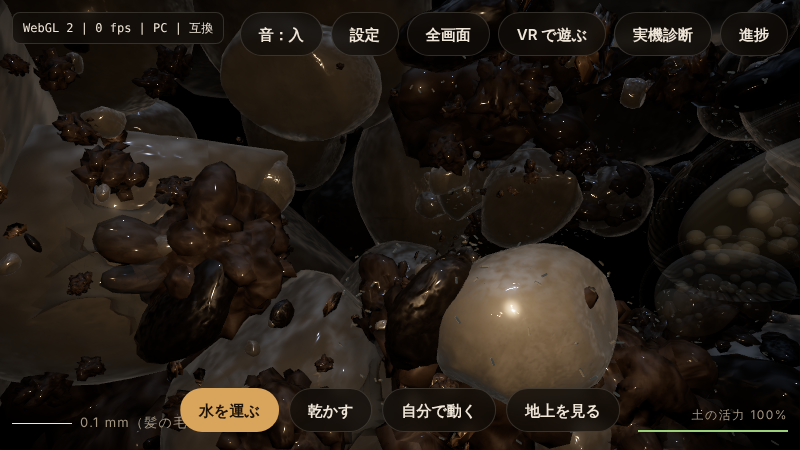
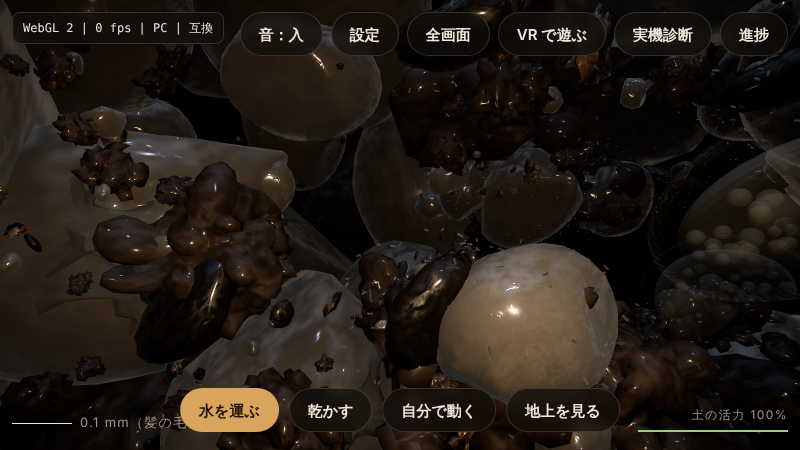
UNDERSOIL: compact intro card, furigana in card titles, mitigate start-up light artifacts (no screen refraction, clamped bloom, softer glints, delayed reveal)
Claude-Session: https://claude.ai/code/session_01HXHWaeyj425ipGMnohy3Vo

diff --git a/undersoil/src/ui/card.css b/undersoil/src/ui/card.css
@@ -1,17 +1,21 @@
-/* 紹介カード：スーツのバイザー表示。50インチのテレビから離れても、iPhone でも読める大きさ */
-.card { position: fixed; left: max(3vw, env(safe-area-inset-left)); bottom: max(13vh, 96px); width: min(34em, 92vw); z-index: 10;
-  font-size: clamp(15px, 1.55vw, 30px); color: var(--ink); background: linear-gradient(100deg, rgba(14, 11, 8, .88), rgba(14, 11, 8, .62)); border-left: 2px solid var(--accent);
-  padding: 1em 1.3em .9em; backdrop-filter: blur(10px); -webkit-backdrop-filter: blur(10px); opacity: 0; transform: translateX(-18px); transition: opacity .6s ease, transform .6s ease; pointer-events: none; }
+/* 紹介カード：スーツのバイザーに出る、小さく控えめな表示。画面の左下、操作ボタンの上 */
+.card { position: fixed; left: max(24px, env(safe-area-inset-left)); bottom: max(96px, calc(env(safe-area-inset-bottom) + 84px)); width: min(24em, calc(100vw - 48px)); z-index: 10;
+  font-size: clamp(13px, 1.05vw, 22px); color: var(--ink);
+  background: linear-gradient(180deg, rgba(20, 15, 11, .66), rgba(12, 9, 7, .5)); border: 1px solid rgba(239, 230, 216, .10); border-radius: 14px;
+  padding: .95em 1.15em .8em; backdrop-filter: blur(14px) saturate(1.1); -webkit-backdrop-filter: blur(14px) saturate(1.1);
+  box-shadow: 0 10px 40px rgba(0, 0, 0, .35); opacity: 0; transform: translateY(10px); transition: opacity .6s ease, transform .6s ease; pointer-events: none; }
 .card.show { opacity: 1; transform: none; pointer-events: auto; }
-.card-tag { font-size: .62em; letter-spacing: .3em; color: var(--accent); margin-bottom: .5em; }
-.card h2 { margin: 0; font-size: 1.55em; font-weight: 600; letter-spacing: .08em; }
-.card .sci { font-style: italic; color: var(--dim); font-size: .85em; margin-top: .15em; font-family: Georgia, "Times New Roman", serif; min-height: 1.2em; }
-.card .size { margin: .6em 0 .5em; font-size: .82em; display: flex; gap: .8em; align-items: baseline; flex-wrap: wrap; }
-.card .size b { color: var(--leaf); font-weight: 600; letter-spacing: .05em; }
+.card::before { content: ""; position: absolute; left: 1.15em; top: 0; width: 2.2em; height: 2px; background: var(--accent); border-radius: 2px; }
+.card-tag { font-size: .7em; letter-spacing: .28em; color: var(--accent); margin-bottom: .35em; }
+.card h2 { margin: 0; font-size: 1.32em; font-weight: 600; letter-spacing: .04em; line-height: 1.35; }
+.card .sci { font-style: italic; color: var(--dim); font-size: .82em; margin-top: .1em; font-family: Georgia, "Times New Roman", serif; min-height: 0; }
+.card .sci:empty { display: none; }
+.card .size { margin: .55em 0 .45em; font-size: .78em; display: flex; gap: .3em .7em; align-items: baseline; flex-wrap: wrap; }
+.card .size b { color: var(--leaf); font-weight: 600; }
 .card .size span { color: var(--dim); }
-.card p { margin: 0; line-height: 1.85; font-size: .95em; }
+.card p { margin: 0; line-height: 1.75; font-size: .88em; color: rgba(239, 230, 216, .92); }
 .card.name-only p, .card.name-only .size { display: none; }
-.card-foot { display: flex; align-items: center; gap: 1em; margin-top: .8em; }
-.card-foot .btn { font-size: .7em; padding: .6em 1.2em; min-height: 0; }
-.card-foot .life { height: 1px; background: var(--dim); display: block; flex: 0 0 auto; width: 100%; max-width: calc(100% - 7em); }
-@media (max-width: 720px) and (orientation: portrait) { .card { bottom: 150px; } }
+.card-foot { display: flex; align-items: center; gap: .8em; margin-top: .7em; }
+.card-foot .btn { font-size: .72em; padding: .45em 1.1em; min-height: 0; background: transparent; white-space: nowrap; flex: 0 0 auto; }
+.card-foot .life { height: 1px; background: rgba(239, 230, 216, .35); display: block; flex: 1 1 auto; max-width: 100%; }
+@media (max-width: 720px) { .card { bottom: 178px; font-size: 13px; } }

diff --git a/undersoil/src/ui/card.ts b/undersoil/src/ui/card.ts
@@ -24,17 +24,17 @@ function narrate(text: string) {
     synth.speak(u);
   } catch { /* 読み上げが使えない機器では字幕だけ */ }
 }
-export function showCard(s: Species, opts: { narration?: boolean; done?: () => void } = {}) {
+export function showCard(s: Species, opts: { narration?: boolean; done?: () => void; holdMs?: number } = {}) {
   const mode = introMode(); if (mode === 'off') { opts.done?.(); return; }
   const r = root(); onDone = opts.done ?? null;
   r.querySelector('.card-tag')!.textContent = s.kind === 'organism' ? 'はじめての出会い' : '土のしくみ';
-  r.querySelector('h2')!.textContent = s.nameJa;
+  r.querySelector('h2')!.textContent = s.title ?? s.nameJa;
   r.querySelector('.sci')!.textContent = s.sci ?? '';
   r.querySelector('.size b')!.textContent = s.size; r.querySelector('.size span')!.textContent = s.sizeCompare;
   r.querySelector('p')!.textContent = mode === 'name' ? '' : s.intro;
   r.classList.toggle('name-only', mode === 'name');
   // 表示は 5〜8 秒（文の長さに合わせる）
-  const ms = mode === 'name' ? 3500 : Math.max(5000, Math.min(8000, 2500 + s.intro.length * 90));
+  const ms = opts.holdMs ?? (mode === 'name' ? 3500 : Math.max(5000, Math.min(8000, 2500 + s.intro.length * 90)));
   const life = r.querySelector('.life') as HTMLElement; life.style.transition = 'none'; life.style.width = '100%';
   requestAnimationFrame(() => { r.classList.add('show'); life.style.transition = `width ${ms}ms linear`; life.style.width = '0%'; });
   if (opts.narration !== false && mode === 'all') narrate(`${s.nameJa}。${s.intro}`);

diff --git a/undersoil/src/pages/screen.ts b/undersoil/src/pages/screen.ts
@@ -11,6 +11,8 @@ import { makeDemo } from '../game/demo';
 import { makePost } from '../game/post';
 import { buildSurface, type Surface } from '../game/surface';
 import { makeEncounters } from '../game/encounters';
+import { SPECIES } from '../game/species';
+import { showCard } from '../ui/card';
 import { mountSettings, savedTier } from '../ui/settings';
 import { createAudio } from '../audio/engine';
 import { makeHud } from './hud';
@@ -80,7 +82,9 @@ async function main() {
   // シェーダーの初回コンパイルの引っかかりを避けるため、読み込み中に準備しておく
   await renderer.compileAsync(scene, camera);
   ($('loadBar') as HTMLElement).style.width = '100%';
-  const begin = () => { started = true; audio.start(); $('loading').classList.add('hide'); stopFacts(); if (wetQ === null && !testing) setTimeout(() => demo.start(), 2500); };
+  const begin = () => { started = true; audio.start(); setTimeout(() => $('loading').classList.add('hide'), 250); stopFacts(); if (wetQ === null && !testing) setTimeout(() => demo.start(), 2500); };
+  // 確認用：?card=<id> で紹介カードをすぐ出す
+  const cardQ = Q.get('card'); if (cardQ && SPECIES[cardQ]) setTimeout(() => showCard(SPECIES[cardQ], { narration: false, holdMs: 600000 }), 50);
   if (testing) begin(); else { const b = $('start') as HTMLButtonElement; b.hidden = false; b.addEventListener('click', begin, { once: true }); }
 
   // 出会いの順番（M1 の自動の流れ用。M3 で、プレイヤーの位置と行動に結び付ける）

diff --git a/undersoil/src/game/post.ts b/undersoil/src/game/post.ts
@@ -1,6 +1,6 @@
 // 後処理（画面版のみ。VR では使わない）：ブルーム、色調整、周辺減光、わずかな粒状感
 import * as THREE from 'three/webgpu';
-import { pass, screenUV, smoothstep, mix, float, vec3, time, fract, sin, dot, vec2 } from 'three/tsl';
+import { pass, screenUV, smoothstep, mix, float, vec3, vec4, time, fract, sin, dot, vec2 } from 'three/tsl';
 import { bloom } from 'three/addons/tsl/display/BloomNode.js';
 import { dof } from 'three/addons/tsl/display/DepthOfFieldNode.js';
 
@@ -14,7 +14,7 @@ export function makePost(renderer: THREE.WebGPURenderer, scene: THREE.Scene, cam
   let out = base.rgb;
   if (effects.some((e) => e.startsWith('bloom'))) {
     const lite = effects.includes('bloom-lite');
-    out = out.add(bloom(base, lite ? 0.22 : 0.3, lite ? 0.4 : 0.65, 0.9).rgb);
+    out = out.add(bloom(vec4(base.rgb.min(vec3(3.0)), float(1)) as unknown as typeof base, lite ? 0.18 : 0.24, lite ? 0.3 : 0.45, 1.15).rgb);
   }
   if (effects.includes('grade')) {
     // 暗部をわずかに寒色へ、明部を暖色へ（映画的な分離）。彩度は上げない

diff --git a/undersoil/src/game/game.ts b/undersoil/src/game/game.ts
@@ -18,7 +18,7 @@ export async function createGame(renderer: THREE.WebGPURenderer, base: string, t
   const camera = new THREE.PerspectiveCamera(58, 1, 0.08, 400);
   const world = await buildWorld(base, { grainLod: q.grainLod as 0 | 1, density: q.grainCount, cheap: tier === 'vr' });
   scene.add(world.group);
-  const bridges = buildBridges(world.colliders, world.samples, world.cellAt, { refraction: q.refraction, max: tier === 'vr' ? 60 : 220 });
+  const bridges = buildBridges(world.colliders, world.samples, world.cellAt, { refraction: 'env', max: tier === 'vr' ? 60 : 220 });
   scene.add(bridges.mesh);
   const swarm = buildSwarm(world.colliders, world.cellAt, world.distToPath, q.swarmGpu ? Math.min(q.swarm, 12000) : q.swarm);
   scene.add(swarm.mesh);

diff --git a/undersoil/src/game/soilMaterial.ts b/undersoil/src/game/soilMaterial.ts
@@ -49,7 +49,7 @@ export function makeSoilMaterial(kind: GrainKind, na: THREE.Texture, detail: THR
   m.normalNode = n;
   // 水の膜：クリアコートの二層反射。膜は滑らかなので、下地の凹凸は拾わせない
   m.clearcoatNode = wet.mul(L.coat);
-  m.clearcoatRoughnessNode = mix(float(0.22), float(0.05), wet);
+  m.clearcoatRoughnessNode = mix(float(0.25), float(0.12), wet);
   if (kind === 'quartz') {
     // 石英は半透明：縁で光が抜けて明るむ（厚みの代わりに視線と法線の角度で近似する）
     const rim = pow(oneMinus(saturate(dot(normalView, positionViewDirection))), 2.5);

diff --git a/undersoil/src/game/species.ts b/undersoil/src/game/species.ts
@@ -4,6 +4,8 @@ export interface Species {
   /** 'organism' = 生き物、'element' = 土の要素（団粒・水の膜など） */
   kind: 'organism' | 'element';
   nameJa: string;
+  /** 題名の表示用。漢字には（よみ）を付ける。なければ nameJa */
+  title?: string;
   /** 学名（生き物のみ） */
   sci?: string;
   taxon?: string;

diff --git a/undersoil/Docs/HANDOFF.md b/undersoil/Docs/HANDOFF.md
@@ -48,6 +48,10 @@
 - 「より現実世界を再現して」→ 地上の場面を写真と見比べて直した：背景のぼけ（PC・モバイル高画質のみ）、細かい土の粒、赤みのある茶色と湿りのまだら、枯れ草・小枝・落ち葉のかけら（`src/game/litter.ts`）、子葉の平たい断面・つやのない質感・縁の色、本葉の向き、茎の地上部を短く。
 - 「iPad で音が聞こえない」（2026-11-22）→ 原因の候補：①iOS の消音モードでは Web Audio が鳴らない ②風と雨を 300Hz 前後の低い音で作っていて、iPad のスピーカーで再生できない。対処：`navigator.audioSession.type = 'playback'` と無音の `<audio>` で消音モードでも鳴るようにし、音域を上げて音量を約2倍にした。開始時に和音が1つ鳴る。実機診断に「音を鳴らす」ボタンを追加。**実機で鳴るかは未確認（持ち主の返事待ち）**。
 - 自動で巡るカメラが、まだ作っていない種のまわり（粒のない空き地）を向いて真っ暗になっていた → 巡る範囲を道の 2〜68% に絞った。
+- 「音は聞こえた」（持ち主、iPad）。
+- 「案内のパネルが大きすぎる」→ 紹介カードを小さく控えめなデザインにした（`src/ui/card.css`。幅 24em、文字 1.05vw、ガラス風の半透明）。
+- 「大きい文字の漢字には、ふりがなをカッコで全部振る」→ カードの題名に（よみ）を付けた（種のデータの `title`）。**今後、大きい文字の漢字には必ず（よみ）を付ける。**
+- 「開始直後、左側で2回ほど光り、光が残るバグのようなもの」→ この環境では再現できず。実機（WebGPU）だけで起きる可能性。候補を3つ潰した：①水の橋の、画面の写しを使う屈折をやめた（全段階で環境の映り込み）②ブルームの元を明るさ 3 で頭打ちにし、にじみの境目を上げた。濡れた粒のつやの鋭さを弱めた ③開始の暗転を 0.25 秒遅らせた。**直ったかは持ち主の確認待ち。**
 - 土の中の絵は「いい」との評価。Quest 3 の確認は後日（持ち主）。
 
 ## 既知の問題・未確認
